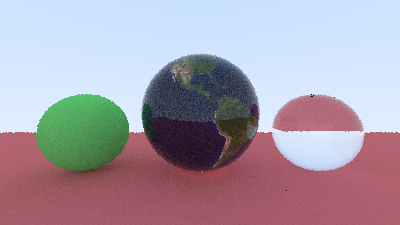
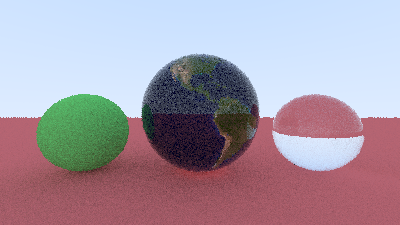
updated scene 10 plane scale

diff --git a/src/main.cpp b/src/main.cpp
@@ -539,7 +539,7 @@ radiance::geometry::Scene scene10(){
 
 
     transform = radiance::math::Transform{}
-        .scale(radiance::math::Vec3{2,1,4}*15)
+        .scale(radiance::math::Vec3{2,1,4}*100)
         .rotate(radiance::math::degToRad(89.99),radiance::math::Vec3{1,0,0})
         .translate(radiance::math::Vec3{0,-1.5,-5});
 
@@ -604,7 +604,7 @@ int main(int argc,char** argv){
     float aspect = 16.0/9.0;
     int width = 400;
     int height = static_cast<int>(width / aspect);
-    int spp = 100;
+    int spp = 32;
     int max_rays = 3000;
     float bounce_offset = 0.0001;
     radiance::io::Image<radiance::math::Color3> out_image{width,height};
